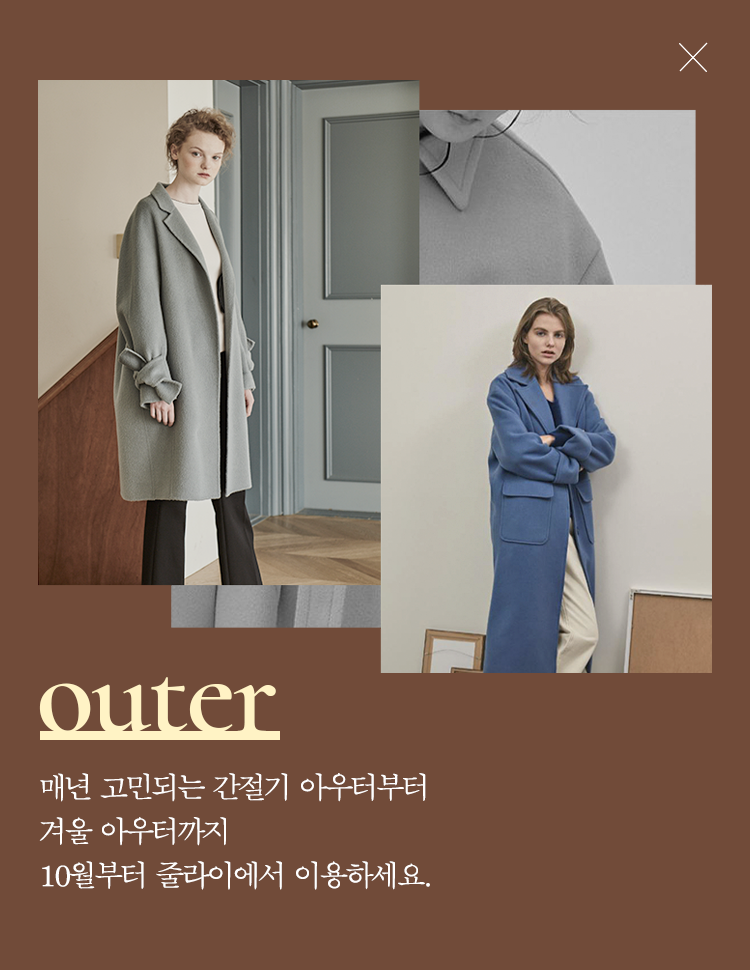
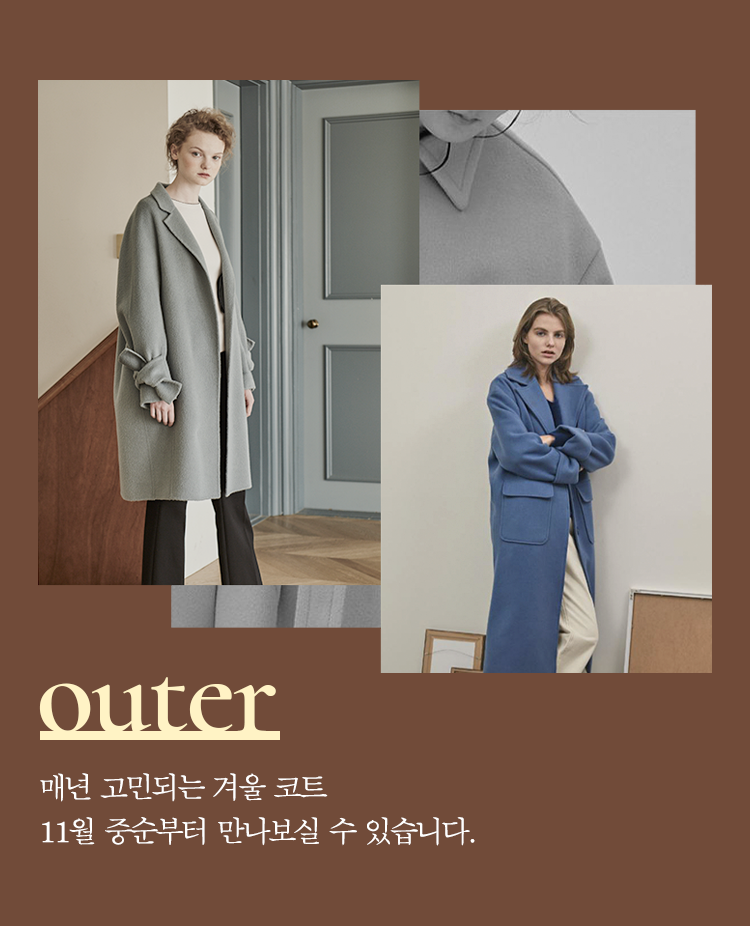
ZULY1-75

Changed region(s): [[0.0307, 0.0605, 0.9507, 0.9374], [0.92, 0.2721, 0.9507, 0.3326], [0.736, 0.1814, 0.7667, 0.2117]]

diff --git a/src/components/closet/detail/Tomorrow.vue b/src/components/closet/detail/Tomorrow.vue
@@ -17,20 +17,32 @@
     <!--데이터가 있다면 -->
     <div v-else>
       <div class="promotion-wrap">
-        <div>
+        <div class="band-banner">
           <p
             @click="clickPromotion"
           >
-            <img style="width: 100%;" src="@/assets/img/closet/event_banner.png"/>
+            <img src="@/assets/img/closet/event_banner.png"/>
           </p>
+          <button
+            type="button"
+            class="btn btn-close"
+          >
+            <span class="icon-close">X</span>
+          </button>
         </div>
         <transition name="popover-promotion">
           <div v-if="isPromotionShow" class="promotion" :style="{height: promotionSize + 'px'}">
             <div class="promotion-content">
               <div>
-                <img style="width: 100%;" src="@/assets/img/closet/event_banner_more.png" alt="">
+                <img src="@/assets/img/closet/event_banner_more.png" alt="">
               </div>
-              <button type="button" @click="isPromotionShow = !isPromotionShow">X</button>
+              <button
+                type="button"
+                class="btn btn-close"
+                @click="isPromotionShow = !isPromotionShow"
+              >
+                <span class="icon-close">X</span>
+              </button>
             </div>
           </div>
         </transition>
@@ -189,7 +201,7 @@ export default {
         productB: {}
       },
       isPromotionShow: false,
-      promotionSize: 0,
+      promotionSize: 0
     };
   },
   computed: {
@@ -208,7 +220,7 @@ export default {
       if (this.isPromotionShow) {
         return {
           // overflow: 'hidden'
-        }
+        };
       }
     }
   },
@@ -550,34 +562,96 @@ export default {
   margin-left: -20px;
   margin-right: -20px;
   margin-bottom: 30px;
-}
-.promotion {
-  position: absolute;
-  left: 0;
-  top: 0;
-  width: 100%;
-  z-index: 10000;
-  .promotion-content {
-    position: relative;
-    z-index: 10;
+  .btn-close {
+    position: absolute;
+    right: 17px;
+    width: 20px;
+    height: 20px;
+    overflow: hidden;
+    text-indent: -9999em;
+    .icon-close {
+      display: block;
+      width: 20px;
+      height: 20px;
+      position: absolute;
+      top: 50%;
+      left: 50%;
+      transform: translate(-50%, -50%);
+      &::before,
+      &::after {
+        content: '';
+        display: block;
+        width: 100%;
+        height: 1px;
+        background-color: #fff;
+        position: absolute;
+        transform-origin: 50% 50%;
+        top: 50%;
+        left: 0;
+      }
+      &::before {
+        transform: rotate(45deg);
+      }
+      &::after {
+        transform: rotate(-45deg);
+      }
+    }
   }
-  &::before {
-    content: '';
-    display: block;
+  .band-banner {
+    position: relative;
+    text-align: center;
+    background-color: #714c39;
+    img {
+      width: 375px;
+      max-width: 100%;
+    }
+    .btn-close {
+      top: 50%;
+      transform: translateY(-50%);
+    }
+  }
+  .promotion {
     position: absolute;
     left: 0;
     top: 0;
-    bottom: 0;
-    right: 0;
-    background-color: rgba(0,0,0,0.6);
+    width: 100%;
+    z-index: 10000;
+    .promotion-content {
+      position: relative;
+      z-index: 10;
+      background-color: #714c39;
+      width: 100%;
+      img {
+        width: 100%;
+      }
+    }
+    &::before {
+      content: '';
+      display: block;
+      position: absolute;
+      left: 0;
+      top: 0;
+      bottom: 0;
+      right: 0;
+      background-color: rgba(0, 0, 0, 0.6);
+    }
+    .btn-close {
+      top: 18px;
+    }
   }
 }
+
 .popover-promotion-enter-active {
 }
 .popover-promotion-leave-active {
 }
 
 @media (min-width: 768px) {
+  .promotion-wrap {
+    margin-left: 0;
+    margin-right: 0;
+  }
+
   .column {
     &:nth-child(2) {
       margin-top: 0;
@@ -594,6 +668,27 @@ export default {
 }
 
 @media (min-width: 1080px) {
+  .promotion-wrap {
+    margin-top: -40px;
+    margin-bottom: 40px;
+    .band-banner {
+      img {
+        width: 410px;
+      }
+    }
+    .promotion {
+      .promotion-content {
+        text-align: center;
+        padding: 15px;
+        img {
+          width: 458px;
+        }
+      }
+      .btn-close {
+        top: 20px;
+      }
+    }
+  }
   .product {
     .product-top {
       .txt-type {

diff --git a/src/components/closet/Menu.vue b/src/components/closet/Menu.vue
@@ -88,15 +88,6 @@ export default {
           text: '구독정보',
           path: '/closet/subscription'
         },
-
-        // {
-        //   text: '쿠폰',
-        //   path: '/closet/coupon',
-        // },
-        // {
-        //   text: '문의내역',
-        //   path: '/closet/cs'
-        // },
         {
           text: 'FAQ',
           path: '/closet/faq',

diff --git a/src/components/closet/detail/Faq.vue b/src/components/closet/detail/Faq.vue
@@ -163,9 +163,9 @@ export default {
   border-bottom: 1px solid $color-primary;
 }
 .table-zuly {
+  @include fontSize(15px);
   .type,
   .title {
-    @include fontSize(15px);
     padding-top: 12px;
     padding-bottom: 15px;
   }
